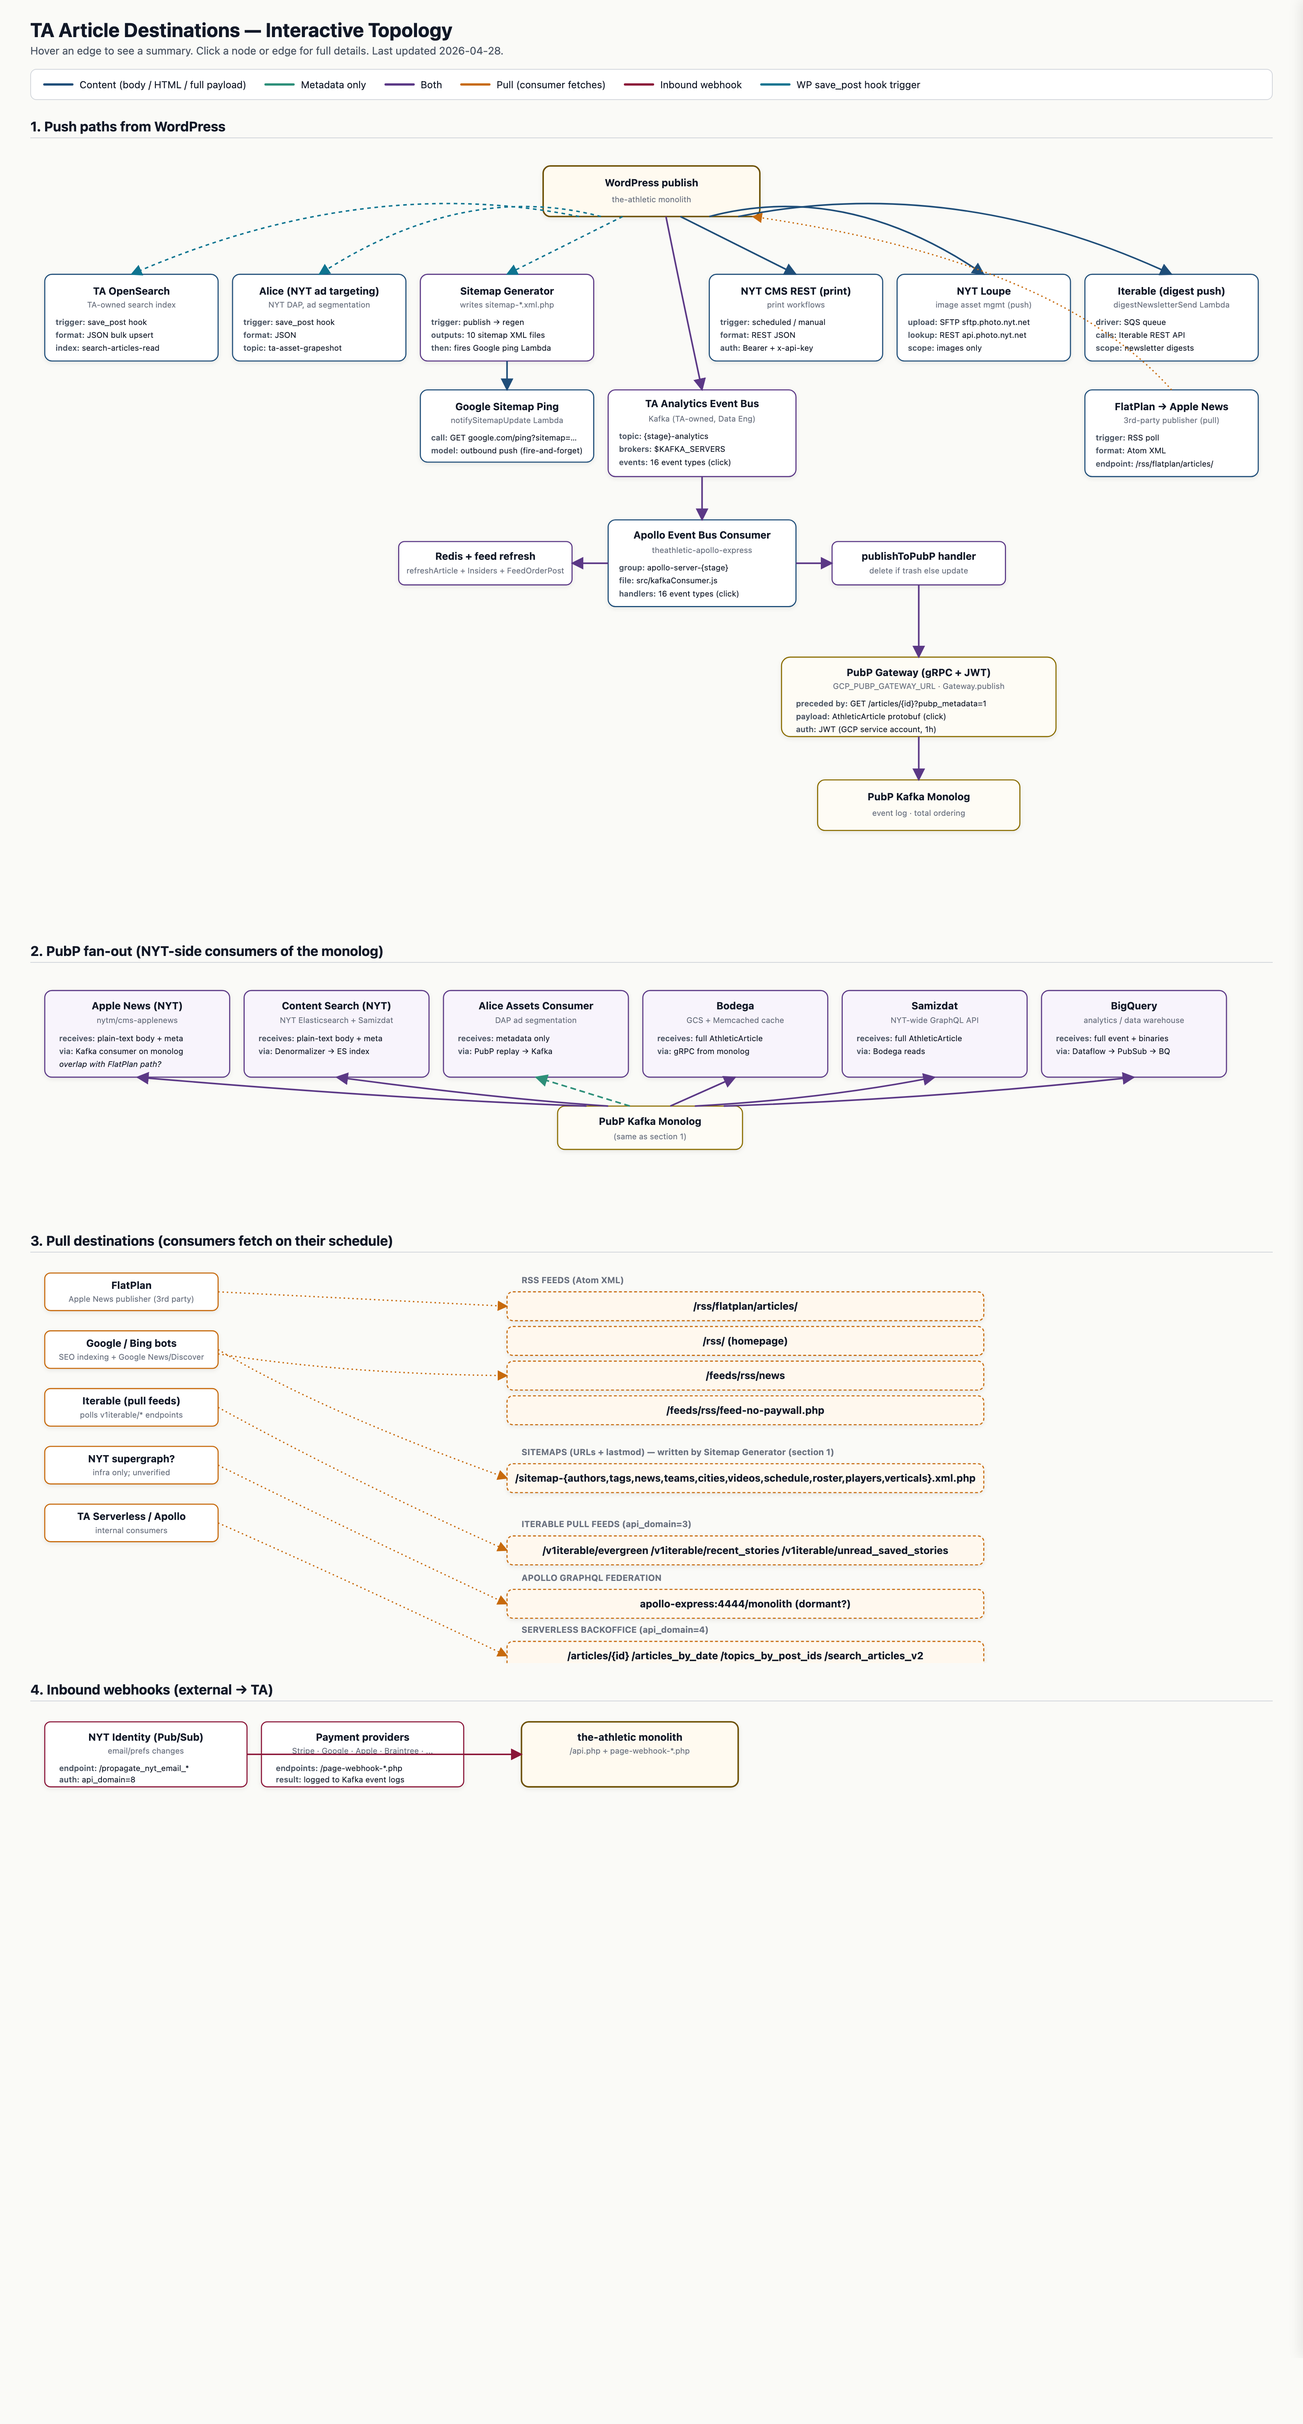
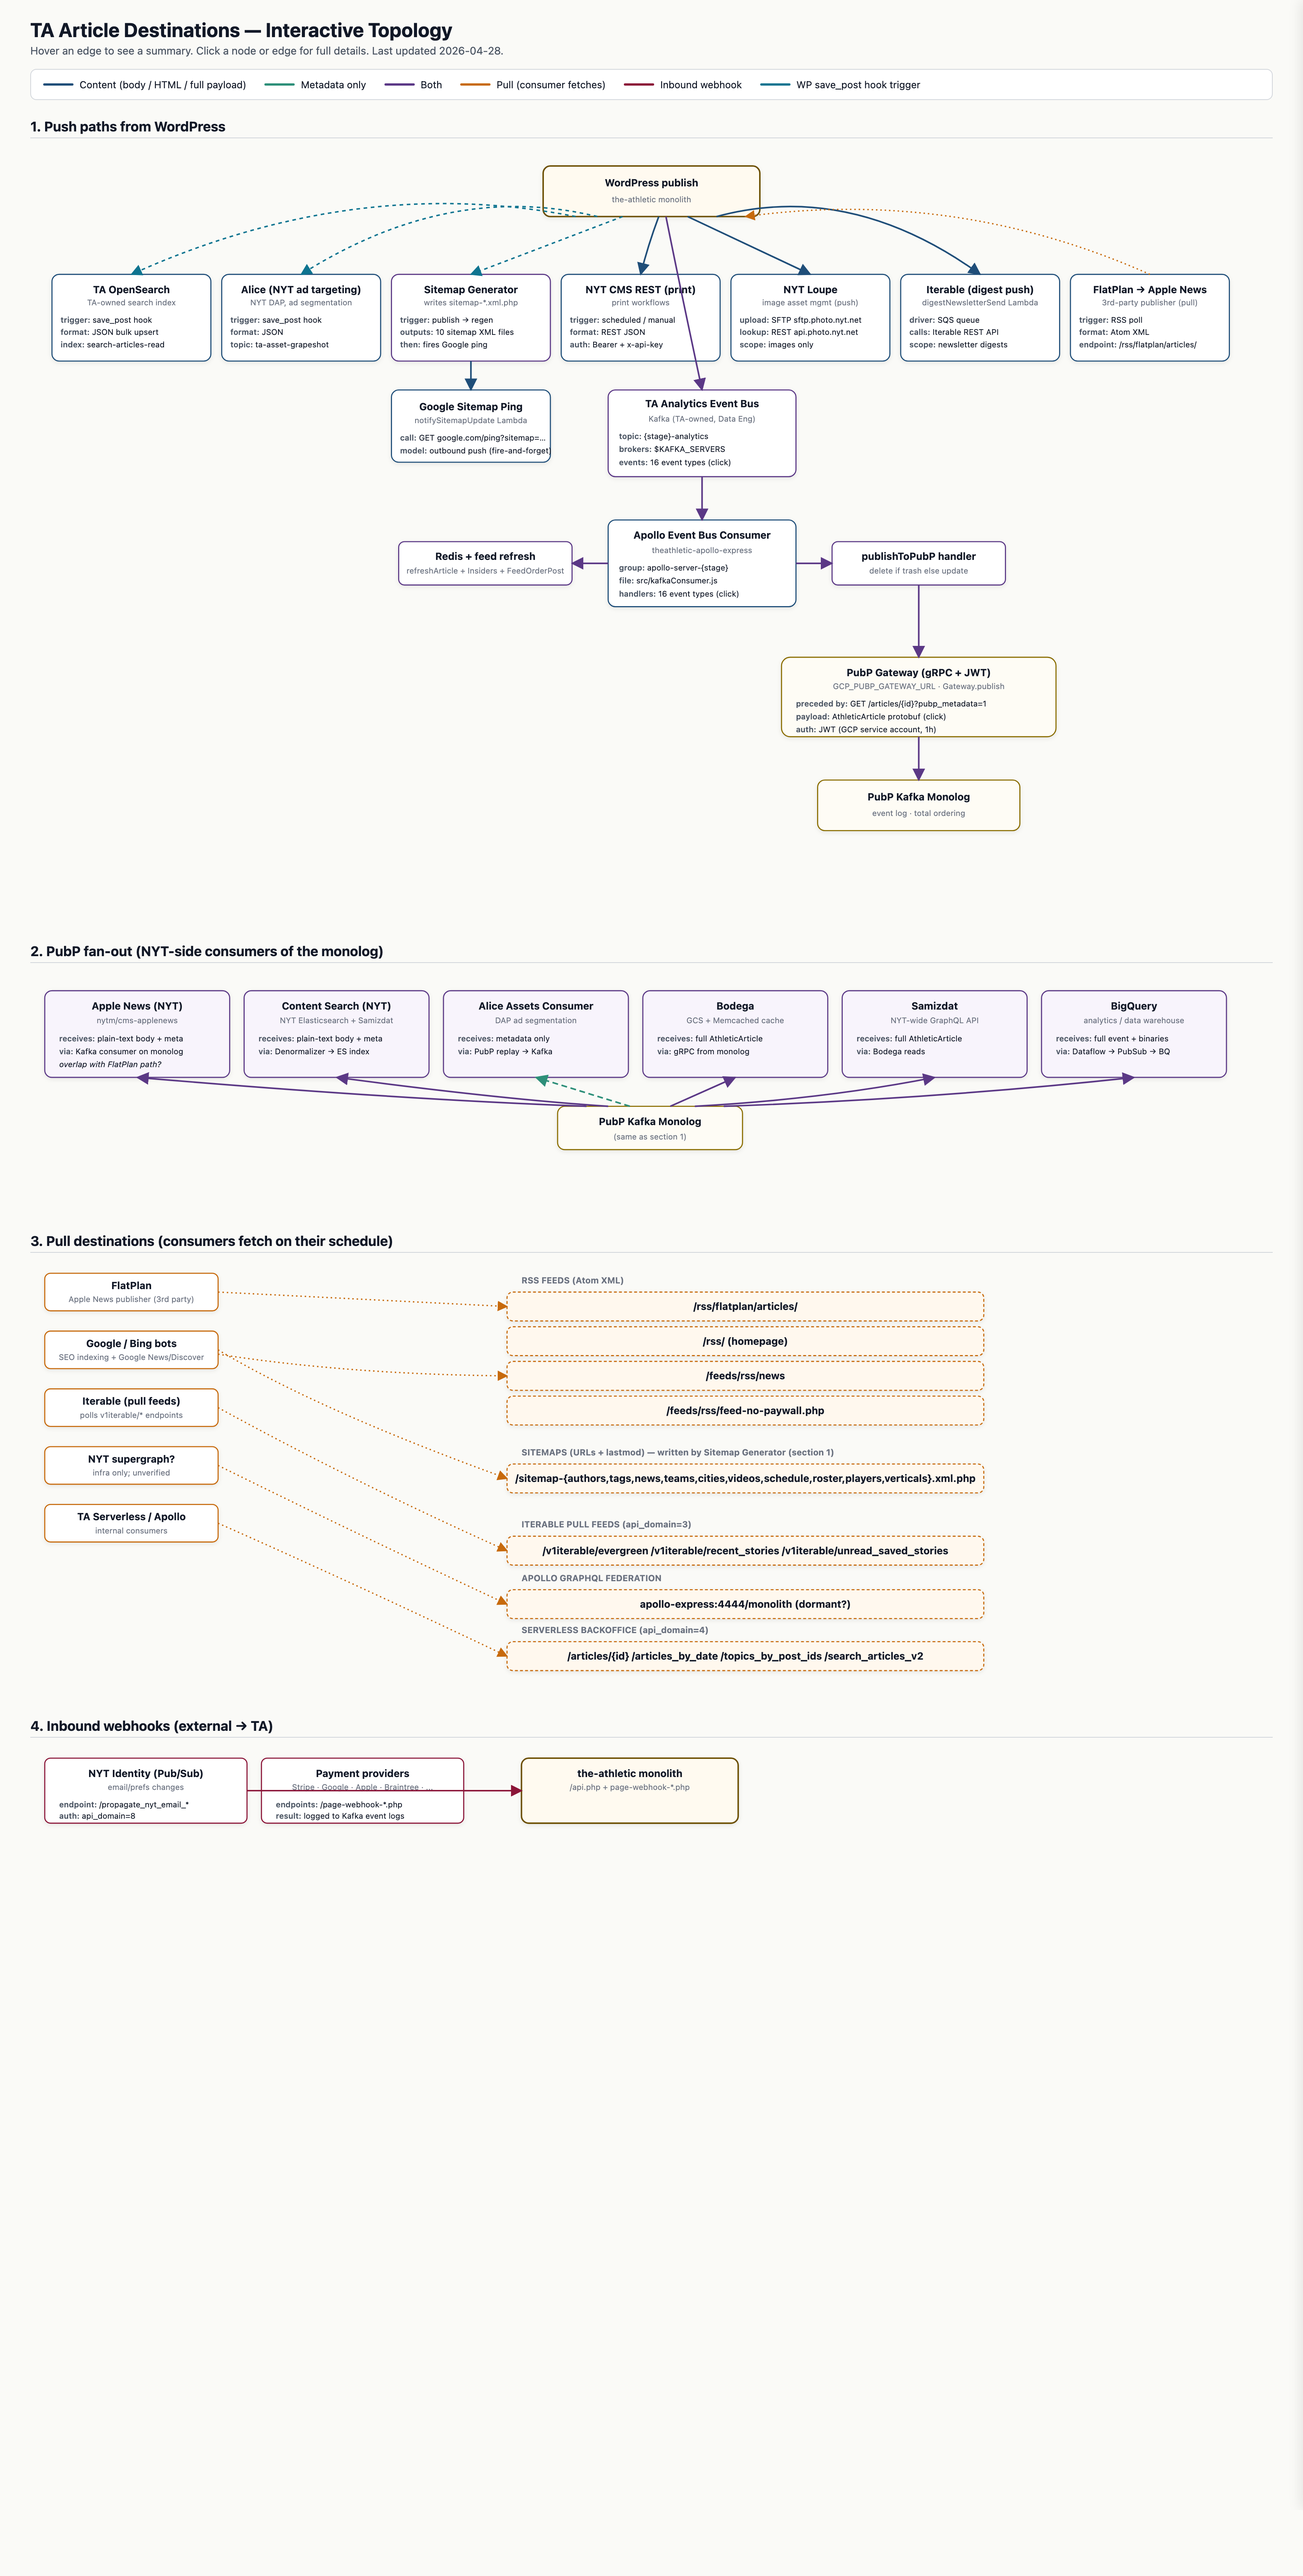
Fix destinations-topology layout: FlatPlan row 1, SBO bottom padding
- Moved FlatPlan onto Section 1 row 1 alongside other WP-publish consumers
- Shrank row-1 node widths (240 -> 220) and fonts (~13/10px) to fit 7 nodes
- Tightened horizontal spacing (15px gaps)
- Increased Section 3 viewBox height 560 -> 610 so the last endpoint box
  (SERVERLESS BACKOFFICE api_domain=4) renders with bottom padding
- Updated WP -> row-1 push edges and FlatPlan RSS pull edge for new positions

diff --git a/destinations-topology.html b/destinations-topology.html
@@ -120,77 +120,88 @@ svg { display: block; width: 100%; height: auto; background: transparent; }
       <text class="subtitle" x="860" y="80" text-anchor="middle">the-athletic monolith</text>
     </g>
 
-    <!-- ROW 1: Direct save_post / publish-time push destinations -->
+    <!-- ROW 1: Direct save_post / publish-time push destinations (7 across) -->
+    <!-- Slot width=220, gap=15. Positions: 30, 265, 500, 735, 970, 1205, 1440 -->
 
     <!-- TA OpenSearch (WP hook triggered) -->
     <g class="node consumer" data-id="ta-opensearch">
-      <rect x="20" y="180" width="240" height="120" rx="10"/>
-      <text class="title" x="140" y="208" text-anchor="middle">TA OpenSearch</text>
-      <text class="subtitle" x="140" y="226" text-anchor="middle">TA-owned search index</text>
-      <text class="kv" x="35" y="250"><tspan class="kv-key">trigger:</tspan> save_post hook</text>
-      <text class="kv" x="35" y="268"><tspan class="kv-key">format:</tspan> JSON bulk upsert</text>
-      <text class="kv" x="35" y="286"><tspan class="kv-key">index:</tspan> search-articles-read</text>
+      <rect x="30" y="180" width="220" height="120" rx="10"/>
+      <text class="title" x="140" y="206" text-anchor="middle" font-size="13">TA OpenSearch</text>
+      <text class="subtitle" x="140" y="223" text-anchor="middle" font-size="10">TA-owned search index</text>
+      <text class="kv" x="42" y="247" font-size="10"><tspan class="kv-key">trigger:</tspan> save_post hook</text>
+      <text class="kv" x="42" y="264" font-size="10"><tspan class="kv-key">format:</tspan> JSON bulk upsert</text>
+      <text class="kv" x="42" y="281" font-size="10"><tspan class="kv-key">index:</tspan> search-articles-read</text>
     </g>
 
     <!-- Alice Pub/Sub (WP hook triggered) -->
     <g class="node consumer" data-id="alice-pubsub">
-      <rect x="280" y="180" width="240" height="120" rx="10"/>
-      <text class="title" x="400" y="208" text-anchor="middle">Alice (NYT ad targeting)</text>
-      <text class="subtitle" x="400" y="226" text-anchor="middle">NYT DAP, ad segmentation</text>
-      <text class="kv" x="295" y="250"><tspan class="kv-key">trigger:</tspan> save_post hook</text>
-      <text class="kv" x="295" y="268"><tspan class="kv-key">format:</tspan> JSON</text>
-      <text class="kv" x="295" y="286"><tspan class="kv-key">topic:</tspan> ta-asset-grapeshot</text>
+      <rect x="265" y="180" width="220" height="120" rx="10"/>
+      <text class="title" x="375" y="206" text-anchor="middle" font-size="13">Alice (NYT ad targeting)</text>
+      <text class="subtitle" x="375" y="223" text-anchor="middle" font-size="10">NYT DAP, ad segmentation</text>
+      <text class="kv" x="277" y="247" font-size="10"><tspan class="kv-key">trigger:</tspan> save_post hook</text>
+      <text class="kv" x="277" y="264" font-size="10"><tspan class="kv-key">format:</tspan> JSON</text>
+      <text class="kv" x="277" y="281" font-size="10"><tspan class="kv-key">topic:</tspan> ta-asset-grapeshot</text>
     </g>
 
     <!-- Sitemap Generator -->
     <g class="node handler" data-id="sitemap-generator">
-      <rect x="540" y="180" width="240" height="120" rx="10"/>
-      <text class="title" x="660" y="208" text-anchor="middle">Sitemap Generator</text>
-      <text class="subtitle" x="660" y="226" text-anchor="middle">writes sitemap-*.xml.php</text>
-      <text class="kv" x="555" y="250"><tspan class="kv-key">trigger:</tspan> publish → regen</text>
-      <text class="kv" x="555" y="268"><tspan class="kv-key">outputs:</tspan> 10 sitemap XML files</text>
-      <text class="kv" x="555" y="286"><tspan class="kv-key">then:</tspan> fires Google ping Lambda</text>
+      <rect x="500" y="180" width="220" height="120" rx="10"/>
+      <text class="title" x="610" y="206" text-anchor="middle" font-size="13">Sitemap Generator</text>
+      <text class="subtitle" x="610" y="223" text-anchor="middle" font-size="10">writes sitemap-*.xml.php</text>
+      <text class="kv" x="512" y="247" font-size="10"><tspan class="kv-key">trigger:</tspan> publish → regen</text>
+      <text class="kv" x="512" y="264" font-size="10"><tspan class="kv-key">outputs:</tspan> 10 sitemap XML files</text>
+      <text class="kv" x="512" y="281" font-size="10"><tspan class="kv-key">then:</tspan> fires Google ping</text>
     </g>
 
     <!-- NYT CMS REST (print) -->
     <g class="node consumer" data-id="nyt-cms-print">
-      <rect x="940" y="180" width="240" height="120" rx="10"/>
-      <text class="title" x="1060" y="208" text-anchor="middle">NYT CMS REST (print)</text>
-      <text class="subtitle" x="1060" y="226" text-anchor="middle">print workflows</text>
-      <text class="kv" x="955" y="250"><tspan class="kv-key">trigger:</tspan> scheduled / manual</text>
-      <text class="kv" x="955" y="268"><tspan class="kv-key">format:</tspan> REST JSON</text>
-      <text class="kv" x="955" y="286"><tspan class="kv-key">auth:</tspan> Bearer + x-api-key</text>
+      <rect x="735" y="180" width="220" height="120" rx="10"/>
+      <text class="title" x="845" y="206" text-anchor="middle" font-size="13">NYT CMS REST (print)</text>
+      <text class="subtitle" x="845" y="223" text-anchor="middle" font-size="10">print workflows</text>
+      <text class="kv" x="747" y="247" font-size="10"><tspan class="kv-key">trigger:</tspan> scheduled / manual</text>
+      <text class="kv" x="747" y="264" font-size="10"><tspan class="kv-key">format:</tspan> REST JSON</text>
+      <text class="kv" x="747" y="281" font-size="10"><tspan class="kv-key">auth:</tspan> Bearer + x-api-key</text>
     </g>
 
     <!-- NYT Loupe (image assets, push via SFTP + REST) -->
     <g class="node consumer" data-id="consumer-nyt-loupe">
-      <rect x="1200" y="180" width="240" height="120" rx="10"/>
-      <text class="title" x="1320" y="208" text-anchor="middle">NYT Loupe</text>
-      <text class="subtitle" x="1320" y="226" text-anchor="middle">image asset mgmt (push)</text>
-      <text class="kv" x="1215" y="250"><tspan class="kv-key">upload:</tspan> SFTP sftp.photo.nyt.net</text>
-      <text class="kv" x="1215" y="268"><tspan class="kv-key">lookup:</tspan> REST api.photo.nyt.net</text>
-      <text class="kv" x="1215" y="286"><tspan class="kv-key">scope:</tspan> images only</text>
+      <rect x="970" y="180" width="220" height="120" rx="10"/>
+      <text class="title" x="1080" y="206" text-anchor="middle" font-size="13">NYT Loupe</text>
+      <text class="subtitle" x="1080" y="223" text-anchor="middle" font-size="10">image asset mgmt (push)</text>
+      <text class="kv" x="982" y="247" font-size="10"><tspan class="kv-key">upload:</tspan> SFTP sftp.photo.nyt.net</text>
+      <text class="kv" x="982" y="264" font-size="10"><tspan class="kv-key">lookup:</tspan> REST api.photo.nyt.net</text>
+      <text class="kv" x="982" y="281" font-size="10"><tspan class="kv-key">scope:</tspan> images only</text>
     </g>
 
     <!-- Iterable push (digestNewsletterSend Lambda) -->
     <g class="node consumer" data-id="consumer-iterable-push">
-      <rect x="1460" y="180" width="240" height="120" rx="10"/>
-      <text class="title" x="1580" y="208" text-anchor="middle">Iterable (digest push)</text>
-      <text class="subtitle" x="1580" y="226" text-anchor="middle">digestNewsletterSend Lambda</text>
-      <text class="kv" x="1475" y="250"><tspan class="kv-key">driver:</tspan> SQS queue</text>
-      <text class="kv" x="1475" y="268"><tspan class="kv-key">calls:</tspan> Iterable REST API</text>
-      <text class="kv" x="1475" y="286"><tspan class="kv-key">scope:</tspan> newsletter digests</text>
+      <rect x="1205" y="180" width="220" height="120" rx="10"/>
+      <text class="title" x="1315" y="206" text-anchor="middle" font-size="13">Iterable (digest push)</text>
+      <text class="subtitle" x="1315" y="223" text-anchor="middle" font-size="10">digestNewsletterSend Lambda</text>
+      <text class="kv" x="1217" y="247" font-size="10"><tspan class="kv-key">driver:</tspan> SQS queue</text>
+      <text class="kv" x="1217" y="264" font-size="10"><tspan class="kv-key">calls:</tspan> Iterable REST API</text>
+      <text class="kv" x="1217" y="281" font-size="10"><tspan class="kv-key">scope:</tspan> newsletter digests</text>
+    </g>
+
+    <!-- FlatPlan (pull via RSS) — now on row 1 -->
+    <g class="node consumer" data-id="flatplan">
+      <rect x="1440" y="180" width="220" height="120" rx="10"/>
+      <text class="title" x="1550" y="206" text-anchor="middle" font-size="13">FlatPlan → Apple News</text>
+      <text class="subtitle" x="1550" y="223" text-anchor="middle" font-size="10">3rd-party publisher (pull)</text>
+      <text class="kv" x="1452" y="247" font-size="10"><tspan class="kv-key">trigger:</tspan> RSS poll</text>
+      <text class="kv" x="1452" y="264" font-size="10"><tspan class="kv-key">format:</tspan> Atom XML</text>
+      <text class="kv" x="1452" y="281" font-size="10"><tspan class="kv-key">endpoint:</tspan> /rss/flatplan/articles/</text>
     </g>
 
     <!-- ROW 2: downstream handlers / chains -->
 
     <!-- Google Sitemap Ping (driven by Sitemap Generator) -->
     <g class="node consumer" data-id="consumer-google-sitemap">
-      <rect x="540" y="340" width="240" height="100" rx="10"/>
-      <text class="title" x="660" y="368" text-anchor="middle">Google Sitemap Ping</text>
-      <text class="subtitle" x="660" y="386" text-anchor="middle">notifySitemapUpdate Lambda</text>
-      <text class="kv" x="555" y="410"><tspan class="kv-key">call:</tspan> GET google.com/ping?sitemap=…</text>
-      <text class="kv" x="555" y="428"><tspan class="kv-key">model:</tspan> outbound push (fire-and-forget)</text>
+      <rect x="500" y="340" width="220" height="100" rx="10"/>
+      <text class="title" x="610" y="368" text-anchor="middle" font-size="13">Google Sitemap Ping</text>
+      <text class="subtitle" x="610" y="386" text-anchor="middle" font-size="10">notifySitemapUpdate Lambda</text>
+      <text class="kv" x="512" y="410" font-size="10"><tspan class="kv-key">call:</tspan> GET google.com/ping?sitemap=…</text>
+      <text class="kv" x="512" y="428" font-size="10"><tspan class="kv-key">model:</tspan> outbound push (fire-and-forget)</text>
     </g>
 
     <!-- PubP chain Step 1: TA Analytics Kafka -->
@@ -201,16 +212,6 @@ svg { display: block; width: 100%; height: auto; background: transparent; }
       <text class="kv" x="815" y="408"><tspan class="kv-key">topic:</tspan> {stage}-analytics</text>
       <text class="kv" x="815" y="426"><tspan class="kv-key">brokers:</tspan> $KAFKA_SERVERS</text>
       <text class="kv" x="815" y="444"><tspan class="kv-key">events:</tspan> 16 event types (click)</text>
-    </g>
-
-    <!-- FlatPlan (pull via RSS) -->
-    <g class="node consumer" data-id="flatplan">
-      <rect x="1460" y="340" width="240" height="120" rx="10"/>
-      <text class="title" x="1580" y="368" text-anchor="middle">FlatPlan → Apple News</text>
-      <text class="subtitle" x="1580" y="386" text-anchor="middle">3rd-party publisher (pull)</text>
-      <text class="kv" x="1475" y="410"><tspan class="kv-key">trigger:</tspan> RSS poll</text>
-      <text class="kv" x="1475" y="428"><tspan class="kv-key">format:</tspan> Atom XML</text>
-      <text class="kv" x="1475" y="446"><tspan class="kv-key">endpoint:</tspan> /rss/flatplan/articles/</text>
     </g>
 
     <!-- PubP chain Step 2: Apollo Event Bus Consumer -->
@@ -255,21 +256,21 @@ svg { display: block; width: 100%; height: auto; background: transparent; }
     </g>
 
     <!-- WP save_post hook edges to row-1 direct pushes -->
-    <path class="edge hook" data-edge="wp-to-opensearch" d="M 760 100 Q 460 40 140 180" marker-end="url(#arrow-hook)"/>
-    <path class="edge hook" data-edge="wp-to-alice" d="M 790 100 Q 600 50 400 180" marker-end="url(#arrow-hook)"/>
-    <path class="edge hook" data-edge="wp-to-sitemap-generator" d="M 820 100 Q 740 140 660 180" marker-end="url(#arrow-hook)"/>
-    <path class="edge content" data-edge="wp-to-nyt-cms-print" d="M 900 100 Q 980 140 1060 180" marker-end="url(#arrow-content)"/>
-    <path class="edge content" data-edge="wp-to-nyt-loupe" d="M 940 100 Q 1130 50 1320 180" marker-end="url(#arrow-content)"/>
-    <path class="edge content" data-edge="wp-to-iterable-push" d="M 980 100 Q 1280 40 1580 180" marker-end="url(#arrow-content)"/>
+    <path class="edge hook" data-edge="wp-to-opensearch" d="M 755 100 Q 450 40 140 180" marker-end="url(#arrow-hook)"/>
+    <path class="edge hook" data-edge="wp-to-alice" d="M 785 100 Q 580 50 375 180" marker-end="url(#arrow-hook)"/>
+    <path class="edge hook" data-edge="wp-to-sitemap-generator" d="M 820 100 Q 715 140 610 180" marker-end="url(#arrow-hook)"/>
+    <path class="edge content" data-edge="wp-to-nyt-cms-print" d="M 870 100 Q 855 140 845 180" marker-end="url(#arrow-content)"/>
+    <path class="edge content" data-edge="wp-to-nyt-loupe" d="M 910 100 Q 995 140 1080 180" marker-end="url(#arrow-content)"/>
+    <path class="edge content" data-edge="wp-to-iterable-push" d="M 950 100 Q 1135 50 1315 180" marker-end="url(#arrow-content)"/>
 
     <!-- Sitemap Generator → Google Sitemap Ping -->
-    <path class="edge content" data-edge="sitemap-generator-to-google-ping" d="M 660 300 L 660 340" marker-end="url(#arrow-content)"/>
+    <path class="edge content" data-edge="sitemap-generator-to-google-ping" d="M 610 300 L 610 340" marker-end="url(#arrow-content)"/>
 
     <!-- WP to analytics bus -->
     <path class="edge mixed" data-edge="wp-to-analytics-kafka" d="M 880 100 Q 900 200 930 340" marker-end="url(#arrow-mixed)"/>
 
     <!-- WP serves RSS (pull: FlatPlan reaches INTO TA to fetch) -->
-    <path class="edge pull" data-edge="flatplan-pulls-rss" d="M 1580 340 Q 1420 160 1000 100" marker-end="url(#arrow-pull)"/>
+    <path class="edge pull" data-edge="flatplan-pulls-rss" d="M 1550 180 Q 1280 60 990 100" marker-end="url(#arrow-pull)"/>
 
     <!-- Kafka → consumer -->
     <path class="edge mixed" data-edge="analytics-to-apollo" d="M 930 460 L 930 520" marker-end="url(#arrow-mixed)"/>
@@ -366,7 +367,7 @@ svg { display: block; width: 100%; height: auto; background: transparent; }
 
 <div class="section">
   <h2>3. Pull destinations (consumers fetch on their schedule)</h2>
-  <svg viewBox="0 0 1720 560">
+  <svg viewBox="0 0 1720 610">
     <!-- Consumers on left -->
     <g class="node pull-consumer" data-id="consumer-flatplan">
       <rect x="20" y="20" width="240" height="52" rx="8"/>
